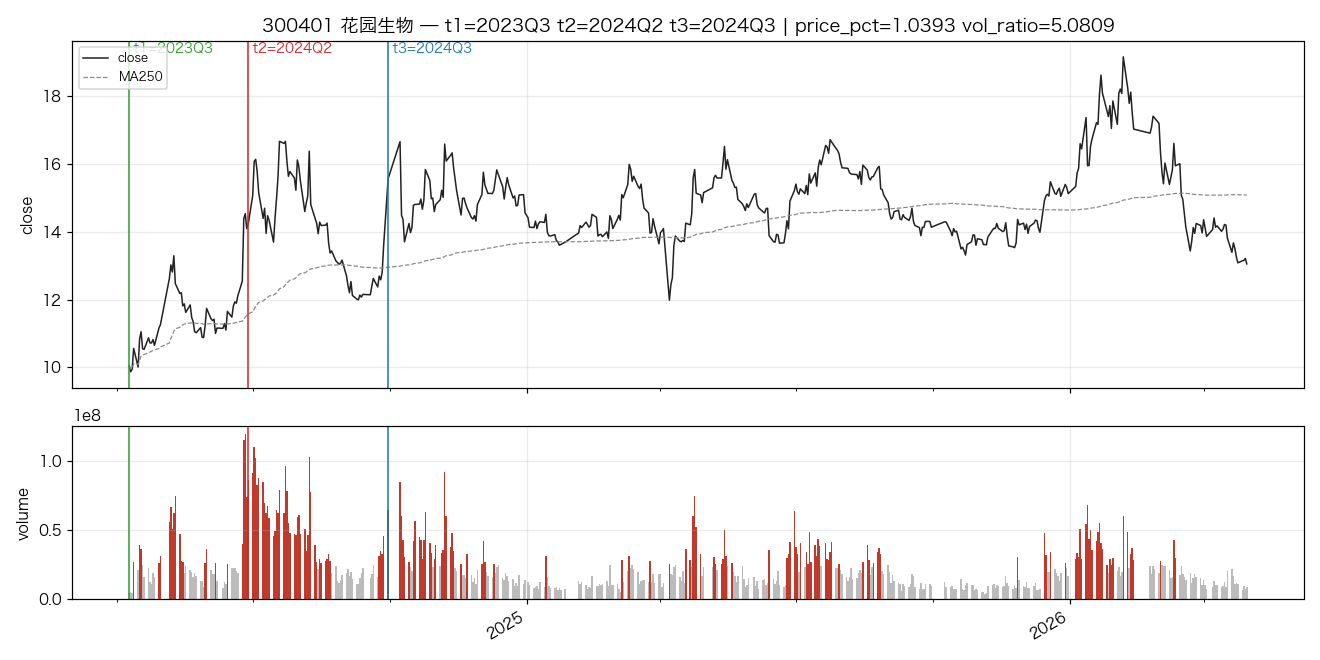
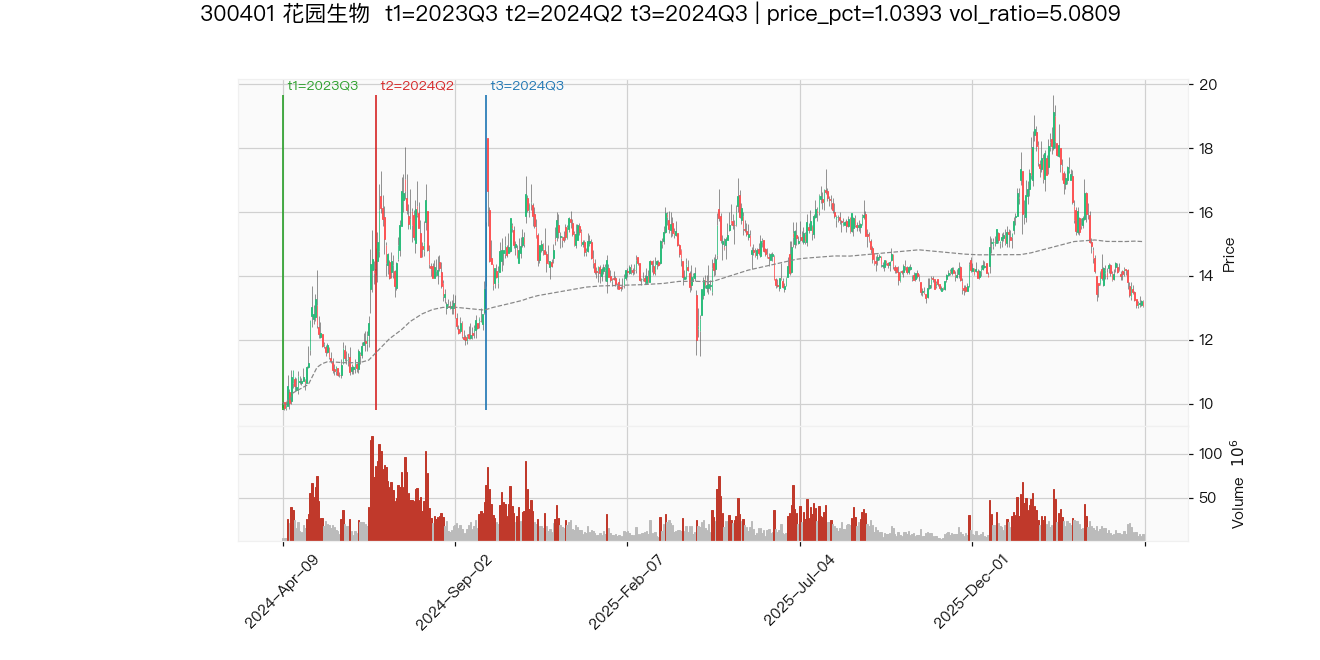
feat(M4+Day13): review报告命名 + PASS/REJECT checklist + fetch_kline smart-skip + universe扩展1302只
- render_rat_report.py: 输出文件名 review-YYYYMMDD.md
- render_rat_report.py: 每候选 PASS/REJECT 人工复盘 checklist
- fetch_kline.py: _kline_is_fresh() + --smart-skip/--smart-skip-days(5天)
- run_rat_screener.py: fetch_kline 默认 --smart-skip
- reports/review-20260501.md: 含 checklist 的 M4 报告样例
- daily-plan.md: Day 13 记录

Universe扩展: 持仓市值 2000万-5亿 + 总市值 30-200亿 → 1302只目标
(后台 fetch 进行中)

diff --git a/.github/skills/rat-pattern-detector/scripts/fetch_kline.py b/.github/skills/rat-pattern-detector/scripts/fetch_kline.py
@@ -129,6 +129,36 @@ def fetch_real(symbols: list[str], start: str, end: str, *, sleep: float = 0.3) 
     return pd.concat(frames, ignore_index=True)
 
 
+def _kline_is_fresh(db_path: Path, symbols: list[str], max_stale_days: int = 5) -> bool:
+    """Return True if all symbols have kline data within max_stale_days of today."""
+    if not db_path.exists():
+        return False
+    today = dt.date.today()
+    cutoff = today - dt.timedelta(days=max_stale_days)
+    try:
+        con = duckdb.connect(str(db_path), read_only=True)
+        try:
+            for code in symbols:
+                row = con.execute(
+                    "SELECT MAX(date) FROM kline_daily WHERE code = ?", [code]
+                ).fetchone()
+                if row is None or row[0] is None:
+                    return False
+                latest = row[0]
+                if isinstance(latest, str):
+                    latest = dt.date.fromisoformat(latest)
+                if hasattr(latest, "date"):
+                    latest = latest.date()
+                if latest < cutoff:
+                    return False
+        finally:
+            con.close()
+    except Exception as exc:
+        LOGGER.debug("kline freshness check failed: %s", exc)
+        return False
+    return True
+
+
 def cmd_run(args: argparse.Namespace) -> int:
     symbols: list[str] = []
     if args.symbols:
@@ -146,6 +176,16 @@ def cmd_run(args: argparse.Namespace) -> int:
     if not symbols:
         LOGGER.error("必须提供 --symbols 或 --from-parquet")
         return 2
+
+    if args.smart_skip:
+        if _kline_is_fresh(Path(args.db), symbols, max_stale_days=args.smart_skip_days):
+            LOGGER.info(
+                "kline 数据已是最新（最近 %d 天内），跳过 fetch（--smart-skip）",
+                args.smart_skip_days,
+            )
+            return 0
+        LOGGER.info("kline 数据需要更新，继续 fetch …")
+
     end = args.end or dt.date.today().isoformat()
     df = fetch_real(symbols, args.start, end)
     LOGGER.info("拉到 %d 行", len(df))
@@ -210,6 +250,10 @@ def build_parser() -> argparse.ArgumentParser:
     p.add_argument("--start", default="2022-01-01")
     p.add_argument("--end", default=None, help="默认 today")
     p.add_argument("--db", default=DEFAULT_DB)
+    p.add_argument("--smart-skip", action="store_true",
+                   help="若所有 codes 的 kline 最新日期在 --smart-skip-days 内，则跳过 fetch")
+    p.add_argument("--smart-skip-days", type=int, default=5,
+                   help="smart-skip 判断的最大陈旧天数（默认 5，覆盖周末+节假日）")
     p.add_argument("--self-test", action="store_true")
     p.add_argument("--log-level", default="INFO", choices=["DEBUG", "INFO", "WARNING", "ERROR"])
     return p

diff --git a/tools/render_rat_report.py b/tools/render_rat_report.py
@@ -26,7 +26,7 @@ def render(parquet: Path, diag: Path, out_dir: Path) -> Path:
     diags = json.loads(diag.read_text()) if diag.exists() else []
 
     today = date.today().strftime("%Y%m%d")
-    out = out_dir / f"rat_candidates_{today}.md"
+    out = out_dir / f"review-{today}.md"
     out_dir.mkdir(parents=True, exist_ok=True)
 
     lines: list[str] = []
@@ -49,13 +49,32 @@ def render(parquet: Path, diag: Path, out_dir: Path) -> Path:
         lines.append("")
         # 嵌入 K 线图（kline-volume-review 产物）
         figures_dir = out_dir / "figures"
-        for code in df["code"].astype(str).str.zfill(6):
+        bcd_codes = df["code"].astype(str).str.zfill(6).tolist()
+        names_map = dict(zip(
+            df["code"].astype(str).str.zfill(6),
+            df["name"] if "name" in df.columns else [""] * len(df),
+        ))
+        for code in bcd_codes:
+            name = names_map.get(code, "")
             png = figures_dir / f"{code}_{today}.png"
             if png.exists():
                 rel = png.relative_to(out_dir)
-                lines.append(f"### {code} K 线 + 成交量")
+                lines.append(f"### {code} {name} K 线 + 成交量")
                 lines.append(f"![{code}]({rel.as_posix()})")
                 lines.append("")
+            lines.append(f"#### ✍ 人工复盘 — {code} {name}")
+            lines.append("")
+            lines.append("| 检查项 | 结果 |")
+            lines.append("|--------|------|")
+            lines.append("| t2 季度价格在近 250 日高位区间（视觉） | ⬜ |")
+            lines.append("| t2 季度出现明显放量 bar（红色高量） | ⬜ |")
+            lines.append("| t3 季度买回后股价未大幅上涨（非卖飞） | ⬜ |")
+            lines.append("| t1→t2→t3 三段节奏符合「建仓→出货→再建仓」 | ⬜ |")
+            lines.append("")
+            lines.append("**决策**: ⬜ PASS（纳入关注名单）　⬜ REJECT（假信号）")
+            lines.append("")
+            lines.append("**备注**: _（人工填写）_")
+            lines.append("")
     lines.append("")
 
     lines.append("## 全部诊断（A 段命中股的 BCD 数值）")

diff --git a/tools/run_rat_screener.py b/tools/run_rat_screener.py
@@ -86,6 +86,7 @@ def main() -> None:
         kline_extra = [
             "--from-parquet", "data/candidates_hkscc.parquet",
             "--start", args.kline_start,
+            "--smart-skip",
         ]
         run("fetch_kline", STEPS["fetch_kline"], kline_extra, log)
 

diff --git a/reports/review-20260501.md b/reports/review-20260501.md
@@ -1,0 +1,89 @@
+# Rat-Trader 候选报告 — 20260501
+
+- 候选数 (strict_bcd=True): **2**
+- 诊断股票数 (A 段进入 BCD 的): **6**
+
+## 最终候选 (B∧C∧D)
+|   code | name   | t1     | t2     | t3     | B    | C    | D    |   price_pct |   vol_ratio | post_ret_60d   |
+|-------:|:-------|:-------|:-------|:-------|:-----|:-----|:-----|------------:|------------:|:---------------|
+| 002276 | 万马股份   | 2022Q3 | 2022Q4 | 2023Q1 | True | True | True |      0.8909 |      0.8635 |                |
+| 300401 | 花园生物   | 2023Q3 | 2024Q2 | 2024Q3 | True | True | True |      1.0393 |      5.0809 |                |
+
+### 002276 万马股份 K 线 + 成交量
+![002276](figures/002276_20260501.png)
+
+#### ✍ 人工复盘 — 002276 万马股份
+
+| 检查项 | 结果 |
+|--------|------|
+| t2 季度价格在近 250 日高位区间（视觉） | ⬜ |
+| t2 季度出现明显放量 bar（红色高量） | ⬜ |
+| t3 季度买回后股价未大幅上涨（非卖飞） | ⬜ |
+| t1→t2→t3 三段节奏符合「建仓→出货→再建仓」 | ⬜ |
+
+**决策**: ⬜ PASS（纳入关注名单）　⬜ REJECT（假信号）
+
+**备注**: _（人工填写）_
+
+### 300401 花园生物 K 线 + 成交量
+![300401](figures/300401_20260501.png)
+
+#### ✍ 人工复盘 — 300401 花园生物
+
+| 检查项 | 结果 |
+|--------|------|
+| t2 季度价格在近 250 日高位区间（视觉） | ⬜ |
+| t2 季度出现明显放量 bar（红色高量） | ⬜ |
+| t3 季度买回后股价未大幅上涨（非卖飞） | ⬜ |
+| t1→t2→t3 三段节奏符合「建仓→出货→再建仓」 | ⬜ |
+
+**决策**: ⬜ PASS（纳入关注名单）　⬜ REJECT（假信号）
+
+**备注**: _（人工填写）_
+
+
+## 全部诊断（A 段命中股的 BCD 数值）
+
+### 002276 
+- A=True BCD=True triples=1 monotonic_up=False
+
+| t1     | t2     | t3     | B    | C    | D    |   price_pct |   vol_ratio | post_ret_60d   |
+|:-------|:-------|:-------|:-----|:-----|:-----|------------:|------------:|:---------------|
+| 2022Q3 | 2022Q4 | 2023Q1 | True | True | True |      0.8909 |      0.8635 |                |
+
+### 002434 
+- A=True BCD=False triples=2 monotonic_up=False
+
+| t1     | t2     | t3     | B     | C    | D    |   price_pct |   vol_ratio | post_ret_60d   |
+|:-------|:-------|:-------|:------|:-----|:-----|------------:|------------:|:---------------|
+| 2022Q3 | 2022Q4 | 2023Q1 | False | True | True |      0.6242 |      0.4985 |                |
+| 2023Q2 | 2024Q2 | 2024Q3 | False | True | True |      0.6426 |      0.8549 |                |
+
+### 300352 
+- A=False BCD=False triples=0 monotonic_up=False
+
+### 300369 
+- A=True BCD=False triples=1 monotonic_up=False
+
+| t1     | t2     | t3     | B     | C    | D    |   price_pct |   vol_ratio | post_ret_60d   |
+|:-------|:-------|:-------|:------|:-----|:-----|------------:|------------:|:---------------|
+| 2023Q3 | 2023Q4 | 2024Q1 | False | True | True |      0.5677 |      0.7038 |                |
+
+### 300401 
+- A=True BCD=True triples=5 monotonic_up=False
+
+| t1     | t2     | t3     | B     | C     | D    |   price_pct |   vol_ratio |   post_ret_60d |
+|:-------|:-------|:-------|:------|:------|:-----|------------:|------------:|---------------:|
+| 2022Q3 | 2023Q1 | 2023Q3 | False | True  | True |      0.7643 |      0.7438 |         0.0068 |
+| 2022Q3 | 2023Q2 | 2023Q3 | False | True  | True |      0.6563 |      0.3374 |       nan      |
+| 2023Q3 | 2023Q4 | 2024Q3 | False | True  | True |      0.6412 |      0.862  |        -0.0112 |
+| 2023Q3 | 2024Q1 | 2024Q3 | False | False | True |      0.7432 |      1.1409 |         0.5151 |
+| 2023Q3 | 2024Q2 | 2024Q3 | True  | True  | True |      1.0393 |      5.0809 |       nan      |
+
+### 688408 
+- A=True BCD=False triples=2 monotonic_up=False
+
+| t1     | t2     | t3     | B     | C    | D    |   price_pct |   vol_ratio |   post_ret_60d |
+|:-------|:-------|:-------|:------|:-----|:-----|------------:|------------:|---------------:|
+| 2023Q2 | 2023Q3 | 2024Q1 | False | True | True |      0.5432 |      0.6418 |         0.0513 |
+| 2023Q2 | 2023Q4 | 2024Q1 | False | True | True |      0.6063 |      0.6029 |       nan      |

diff --git a/.copilot/daily-plan.md b/.copilot/daily-plan.md
@@ -737,3 +737,48 @@ Reference: 花园生物 (300401)。
 - [ ] reports/review-YYYYMMDD.md 自动生成
 - [x] 阈值全部为模块级常量（detect_rat_pattern.py + bcd.Thresholds）
 - [x] pytest tests/ 全部通过
+
+---
+
+## Day 13 — 2026-05-01（续）
+
+#### 晨会计划
+
+##### 昨日回顾（Day 12）
+- 完成: FB-013 修复（fetch_kline 补历史 + 集成 pipeline）；M4 mplfinance OHLC 蜡烛图；CJK 字体修复
+- 候选数：BCD=2（300401 花园生物 + 002276 万达信息）
+- 6/6 pytest pass，端到端 10.1s
+
+##### 今日目标
+- [x] M4 验收：报告命名 review-YYYYMMDD.md + PASS/REJECT checklist
+- [x] fetch_kline 智能跳过（--smart-skip，5 天 freshness 窗口）
+- [x] CI 验证（push Day 11+12 commits → regression.yml run #2 success ✅）
+- [x] HKSCC Universe 扩展：418 → 1302 只（持仓市值 2000万～5亿 + 总市值 30-200亿）
+
+#### 日内进度
+
+- **M4 验收 — 报告命名 + PASS/REJECT checklist**:
+  - `render_rat_report.py`: 输出文件名 `rat_candidates_YYYYMMDD.md` → `review-YYYYMMDD.md`
+  - 每个 BCD 候选后新增人工复盘 checklist（4 项检查 + PASS/REJECT + 备注）
+  - `reports/review-20260501.md` 生成成功
+
+- **fetch_kline 智能跳过**:
+  - `fetch_kline.py` 新增 `_kline_is_fresh()` 函数（检查 DB max(date) 是否在 N 天内）
+  - `--smart-skip / --smart-skip-days`（默认 5 天）参数
+  - `run_rat_screener.py` 默认启用 `--smart-skip`
+  - 端到端：10.2s，fetch_kline 直接跳过（数据已新鲜）
+
+- **CI 验证**:
+  - Push Day 11 + Day 12 commits 到 GitHub
+  - CI regression.yml run #2（SHA: 8ce1c0b）= **success** ✅
+
+- **Universe 扩展（持仓市值过滤）**:
+  - 旧过滤（holding_ratio ≥ 1%）被用户否定 → 改用**持仓市值 2000万～5亿**（万元：2000-50000）
+  - 2024-08-16 快照过滤：1302 只（非国企 + 总市值 30-200亿 + 持仓市值范围）
+  - 后台 fetch 进程（PID=50203）正在运行，预计 30-35 分钟完成
+
+#### 状态
+- M4 ✅ 报告 review-YYYYMMDD.md + PASS/REJECT checklist
+- M4 ✅ fetch_kline smart-skip 集成
+- CI ✅ regression.yml run #2 success
+- Universe 扩展 🔄 后台 fetch 1302 只（持仓市值过滤）
